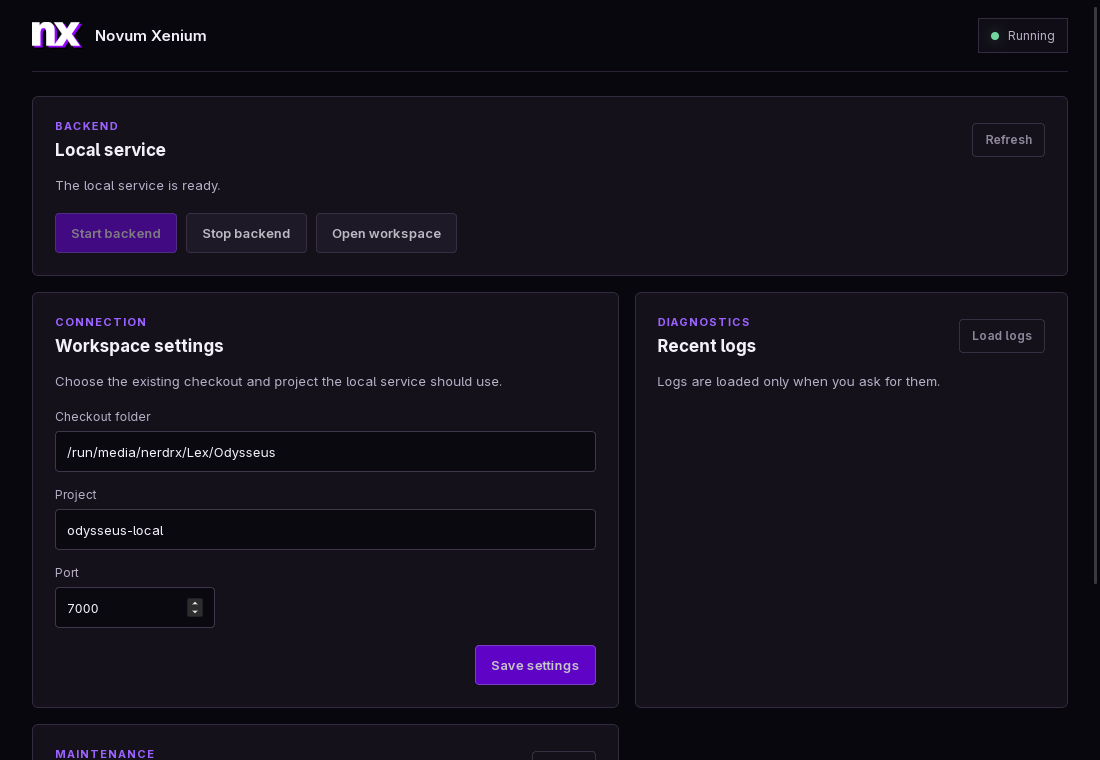
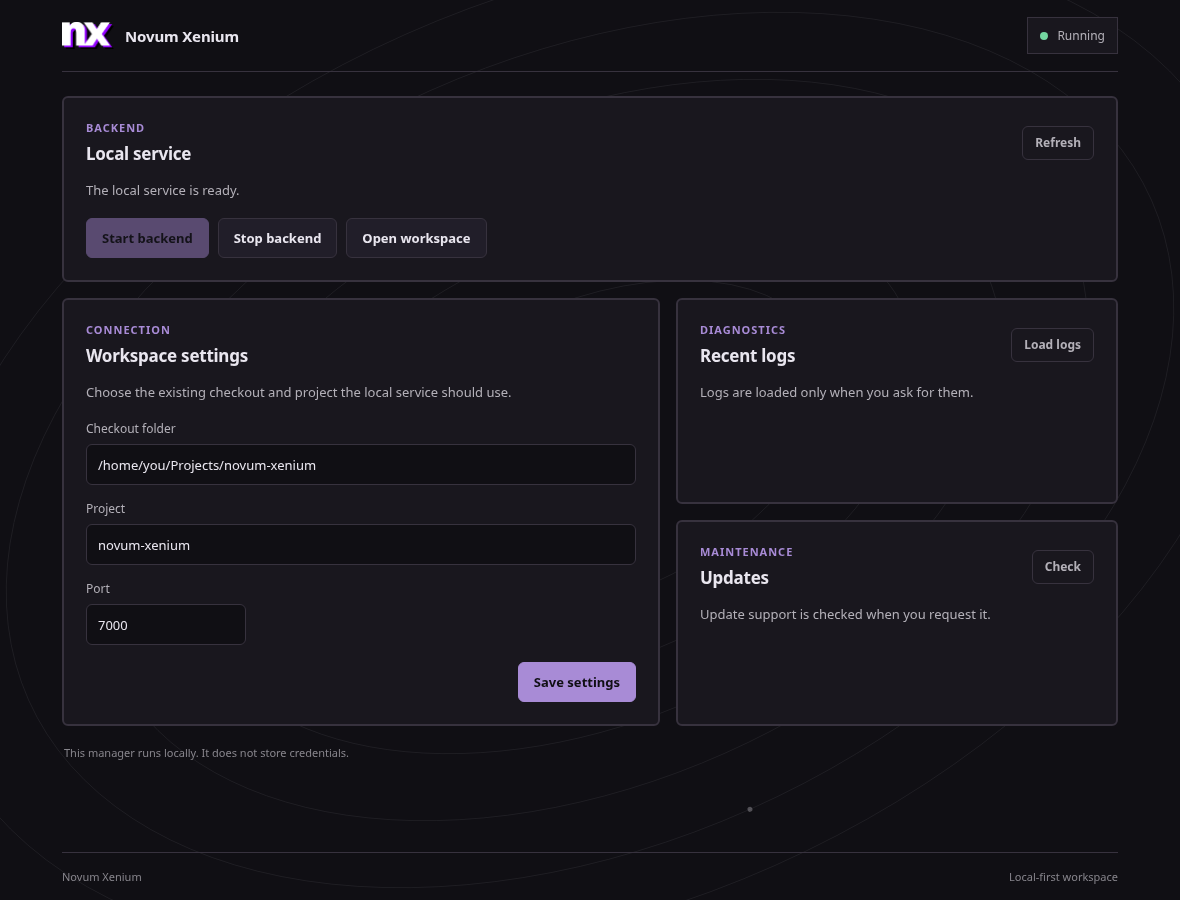
Match the desktop manager to the NX workspace theme

diff --git a/desktop/src/styles.css b/desktop/src/styles.css
@@ -1,14 +1,14 @@
 :root {
   color-scheme: dark;
-  --ground: #09070e;
-  --surface: #14111b;
-  --surface-raised: #1b1724;
-  --ink: #f4f0fb;
-  --muted: #b7afc6;
-  --faint: #8d849c;
-  --line: #332b40;
-  --violet: #9b62ff;
-  --violet-strong: #7700ff;
+  --ground: #100f14;
+  --surface: #19171e;
+  --surface-raised: #211e29;
+  --ink: #e9e6ef;
+  --muted: color-mix(in srgb, var(--ink) 75%, var(--ground));
+  --faint: color-mix(in srgb, var(--ink) 55%, var(--ground));
+  --line: #37323e;
+  --violet: #a88bd6;
+  --violet-strong: var(--violet);
   --good: #73d6a0;
   --amber: #f4c35b;
   --danger: #ff7a88;
@@ -21,13 +21,14 @@
 
 * { box-sizing: border-box; }
 body { margin: 0; min-width: 320px; min-height: 100vh; background: var(--ground); }
+body::before { content: ""; position: fixed; inset: 0; background: url('./assets/orbits.svg') center / cover no-repeat; pointer-events: none; }
 button, input { font: inherit; }
 button { color: inherit; }
-button:focus-visible, input:focus-visible, a:focus-visible, pre:focus-visible { outline: 2px solid #bd92ff; outline-offset: 3px; }
+button:focus-visible, input:focus-visible, a:focus-visible, pre:focus-visible { outline: 2px solid var(--violet); outline-offset: 3px; }
 [hidden] { display: none !important; }
 
-.app-shell { max-width: 1120px; min-height: 100vh; margin: 0 auto; padding: 0 32px; display: flex; flex-direction: column; }
-.topbar { min-height: 72px; display: flex; justify-content: space-between; align-items: center; border-bottom: 1px solid #2a2233; }
+.app-shell { position: relative; max-width: 1120px; min-height: 100vh; margin: 0 auto; padding: 0 32px; display: flex; flex-direction: column; }
+.topbar { min-height: 72px; display: flex; justify-content: space-between; align-items: center; border-bottom: 1px solid var(--line); }
 .brand { display: inline-flex; align-items: center; gap: 11px; color: var(--ink); font-size: 15px; font-weight: 650; text-decoration: none; letter-spacing: -.01em; }
 .brand img { object-fit: contain; }
 .main-content { flex: 1; padding: 24px 0 32px; }
@@ -35,44 +36,45 @@ button:focus-visible, input:focus-visible, a:focus-visible, pre:focus-visible { 
 h1, h2, p { margin-top: 0; }
 h1 { font-size: clamp(27px, 4vw, 36px); line-height: 1.13; letter-spacing: -.035em; margin: 0; }
 h2 { font-size: 17px; letter-spacing: -.015em; margin: 0; }
-.state-chip { display: inline-flex; align-items: center; gap: 9px; border: 1px solid var(--line); background: #100d16; padding: 9px 12px; color: var(--muted); font-size: 12px; white-space: nowrap; }
+.state-chip { display: inline-flex; align-items: center; gap: 9px; border: 1px solid var(--line); background: var(--surface); padding: 9px 12px; color: var(--muted); font-size: 12px; white-space: nowrap; }
 .state-chip .state-dot { width: 8px; height: 8px; border-radius: 50%; background: var(--faint); box-shadow: none; }
-.state-running .state-dot { background: var(--good); box-shadow: 0 0 12px #73d6a055; }
+.state-running .state-dot { background: var(--good); box-shadow: none; }
 .state-unhealthy .state-dot { background: var(--amber); box-shadow: none; }
 .state-stopped .state-dot, .state-unconfigured .state-dot { background: var(--faint); box-shadow: none; }
 .dashboard-grid { display: grid; grid-template-columns: minmax(0, 1.15fr) minmax(300px, .85fr); gap: 16px; }
-.panel { min-width: 0; padding: 22px; background: var(--surface); border: 1px solid var(--line); border-radius: 6px; }
+.panel { min-width: 0; padding: 22px; background: var(--surface); border: 2px solid var(--line); border-radius: 6px; }
 .service-panel { grid-column: 1 / -1; }
+.config-panel { grid-row: span 2; }
 .panel-heading { display: flex; justify-content: space-between; align-items: center; gap: 16px; }
 .panel-description { color: var(--muted); font-size: 13px; line-height: 1.55; margin: 15px 0 18px; }
 .action-row { display: flex; flex-wrap: wrap; gap: 9px; }
-.button { min-height: 40px; padding: 0 15px; border: 1px solid transparent; border-radius: 4px; cursor: pointer; font-size: 13px; font-weight: 650; transition: background-color .14s, border-color .14s, opacity .14s; }
+.button { min-height: 40px; padding: 0 15px; border: 1px solid transparent; border-radius: 6px; cursor: pointer; font-size: 13px; font-weight: 650; transition: background-color .14s, border-color .14s, opacity .14s; }
 .button:disabled { opacity: .45; cursor: not-allowed; }
-.button-primary { background: var(--violet-strong); border-color: #994dff; color: white; }
-.button-primary:not(:disabled):hover { background: #8b31ff; }
-.button-secondary { background: #211b2b; border-color: #44394f; color: var(--ink); }
-.button-secondary:not(:disabled):hover, .button-quiet:not(:disabled):hover { background: #2b2338; }
-.button-quiet { background: transparent; border-color: #44394f; color: var(--muted); }
+.button-primary { background: var(--violet-strong); border-color: var(--violet); color: var(--ground); }
+.button-primary:not(:disabled):hover { background: color-mix(in srgb, var(--violet) 85%, var(--ink)); }
+.button-secondary { background: var(--surface-raised); border-color: var(--line); color: var(--ink); }
+.button-secondary:not(:disabled):hover, .button-quiet:not(:disabled):hover { background: color-mix(in srgb, var(--ink) 7%, var(--surface)); }
+.button-quiet { background: transparent; border-color: var(--line); color: var(--muted); }
 .button-small { min-height: 34px; padding: 0 12px; font-size: 12px; }
 .button-warning { background: #574116; border-color: #88621f; color: #ffe5a2; }
 .field { display: block; margin-top: 15px; }
 .field > span { display: block; font-size: 12px; color: var(--muted); margin-bottom: 7px; }
-.field input { display: block; width: 100%; min-height: 41px; border: 1px solid #40364b; border-radius: 4px; color: var(--ink); background: #0b0910; padding: 0 11px; font-size: 13px; }
-.field input::placeholder { color: #777083; }
+.field input { display: block; width: 100%; min-height: 41px; border: 1px solid var(--line); border-radius: 6px; color: var(--ink); background: var(--ground); padding: 0 11px; font-size: 13px; }
+.field input::placeholder { color: var(--faint); }
 .field-port { max-width: 160px; }
 .form-footer { margin-top: 17px; display: flex; align-items: center; justify-content: space-between; gap: 14px; }
 .inline-message { margin: 0; min-height: 18px; color: var(--muted); font-size: 12px; }
 .inline-message.error { color: var(--danger); }
 .inline-message.success { color: var(--good); }
-.logs-output { max-height: 260px; overflow: auto; white-space: pre-wrap; overflow-wrap: anywhere; border: 1px solid #30283a; border-radius: 4px; background: #09070d; color: #d8d0e3; padding: 13px; font: 12px/1.55 ui-monospace, SFMono-Regular, Consolas, monospace; }
+.logs-output { max-height: 260px; overflow: auto; white-space: pre-wrap; overflow-wrap: anywhere; border: 1px solid var(--line); border-radius: 6px; background: var(--ground); color: var(--ink); padding: 13px; font: 12px/1.55 ui-monospace, SFMono-Regular, Consolas, monospace; }
 .update-review { border-top: 1px solid var(--line); padding-top: 15px; }
 .update-review p { color: var(--muted); font-size: 13px; line-height: 1.5; }
 .update-review .backup-note { color: var(--amber); }
-.notice { border: 1px solid; padding: 12px 14px; margin: 0 0 16px; border-radius: 4px; font-size: 13px; line-height: 1.5; }
+.notice { border: 1px solid; padding: 12px 14px; margin: 0 0 16px; border-radius: 6px; font-size: 13px; line-height: 1.5; }
 .notice-error { color: #ffdce0; border-color: #773b47; background: #251118; }
-.notice-info { color: #dcd0ef; border-color: #45365c; background: #171120; }
+.notice-info { color: var(--ink); border-color: var(--line); background: var(--surface-raised); }
 .privacy-note { margin: 19px 2px 0; color: var(--faint); font-size: 11px; }
-.footer { border-top: 1px solid #211b29; min-height: 48px; display: flex; justify-content: space-between; align-items: center; color: var(--faint); font-size: 11px; }
+.footer { border-top: 1px solid var(--line); min-height: 48px; display: flex; justify-content: space-between; align-items: center; color: var(--faint); font-size: 11px; }
 .is-busy [data-action] { cursor: progress; }
 
 @media (max-width: 700px) {
@@ -81,6 +83,7 @@ h2 { font-size: 17px; letter-spacing: -.015em; margin: 0; }
   .main-content { padding-top: 30px; }
   .dashboard-grid { grid-template-columns: minmax(0, 1fr); gap: 12px; }
   .service-panel { grid-column: auto; }
+  .config-panel { grid-row: auto; }
   .panel { padding: 18px; }
   .action-row .button { flex: 1 1 145px; }
   .form-footer { align-items: flex-start; flex-direction: column; }

diff --git a/README.md b/README.md
@@ -44,9 +44,13 @@ That's the setup: clone, copy the environment file, run Compose. Authentication 
 
 ![Novum Xenium desktop manager](assets/branding/desktop-manager.png)
 
+<sub>The manager, with an example checkout. Same palette as the workspace, without the extra browser tab.</sub>
+
 Start the backend, open the workspace, get on with it. Close the window and it stays in the tray. Reopen it without losing the page.
 
 The app uses your system webview. It can check backend health, show logs, review updates, back up application data and help recover a failed startup. Chat, memory and tools live in the backend, so you don't end up managing a second desktop copy.
+
+Copy an image to another app, save it with a native file dialog or open it in your default browser. Ordinary web links open there too. Desktop notifications are optional and off by default; enable them in Settings while the app is running.
 
 Install a [desktop release](https://github.com/nerdrx/novum-xenium/releases) directly or through [NX Hub](https://github.com/nerdrx/nx-hub). The current app adopts an existing Compose checkout; it does not install Docker, WSL or Git for you.
 
@@ -96,7 +100,7 @@ Install small panels and MCP tool connections from **Settings → Modules**. Upd
 
 ### Still your workspace
 
-The NX interface keeps the original colour, font and background controls. Use your own theme, switch effects or turn them off. Personality names and chat titles survive a refresh; names you set yourself stay yours.
+Charcoal panels, lavender controls and quiet orbit lines. The workspace and desktop manager now share the NX default palette. Colour, font and background controls remain, so you can make it yours or turn effects off. Custom themes currently apply to the workspace; the manager keeps the NX default. Personality names and chat titles survive a refresh; names you set yourself stay yours.
 
 Images have their own provider settings. The optional [Codex image bridge](docs/codex-image-bridge.md) uses an existing host login for generation and attached-image edits. It needs separate setup; quality and size settings are guidance.
 
